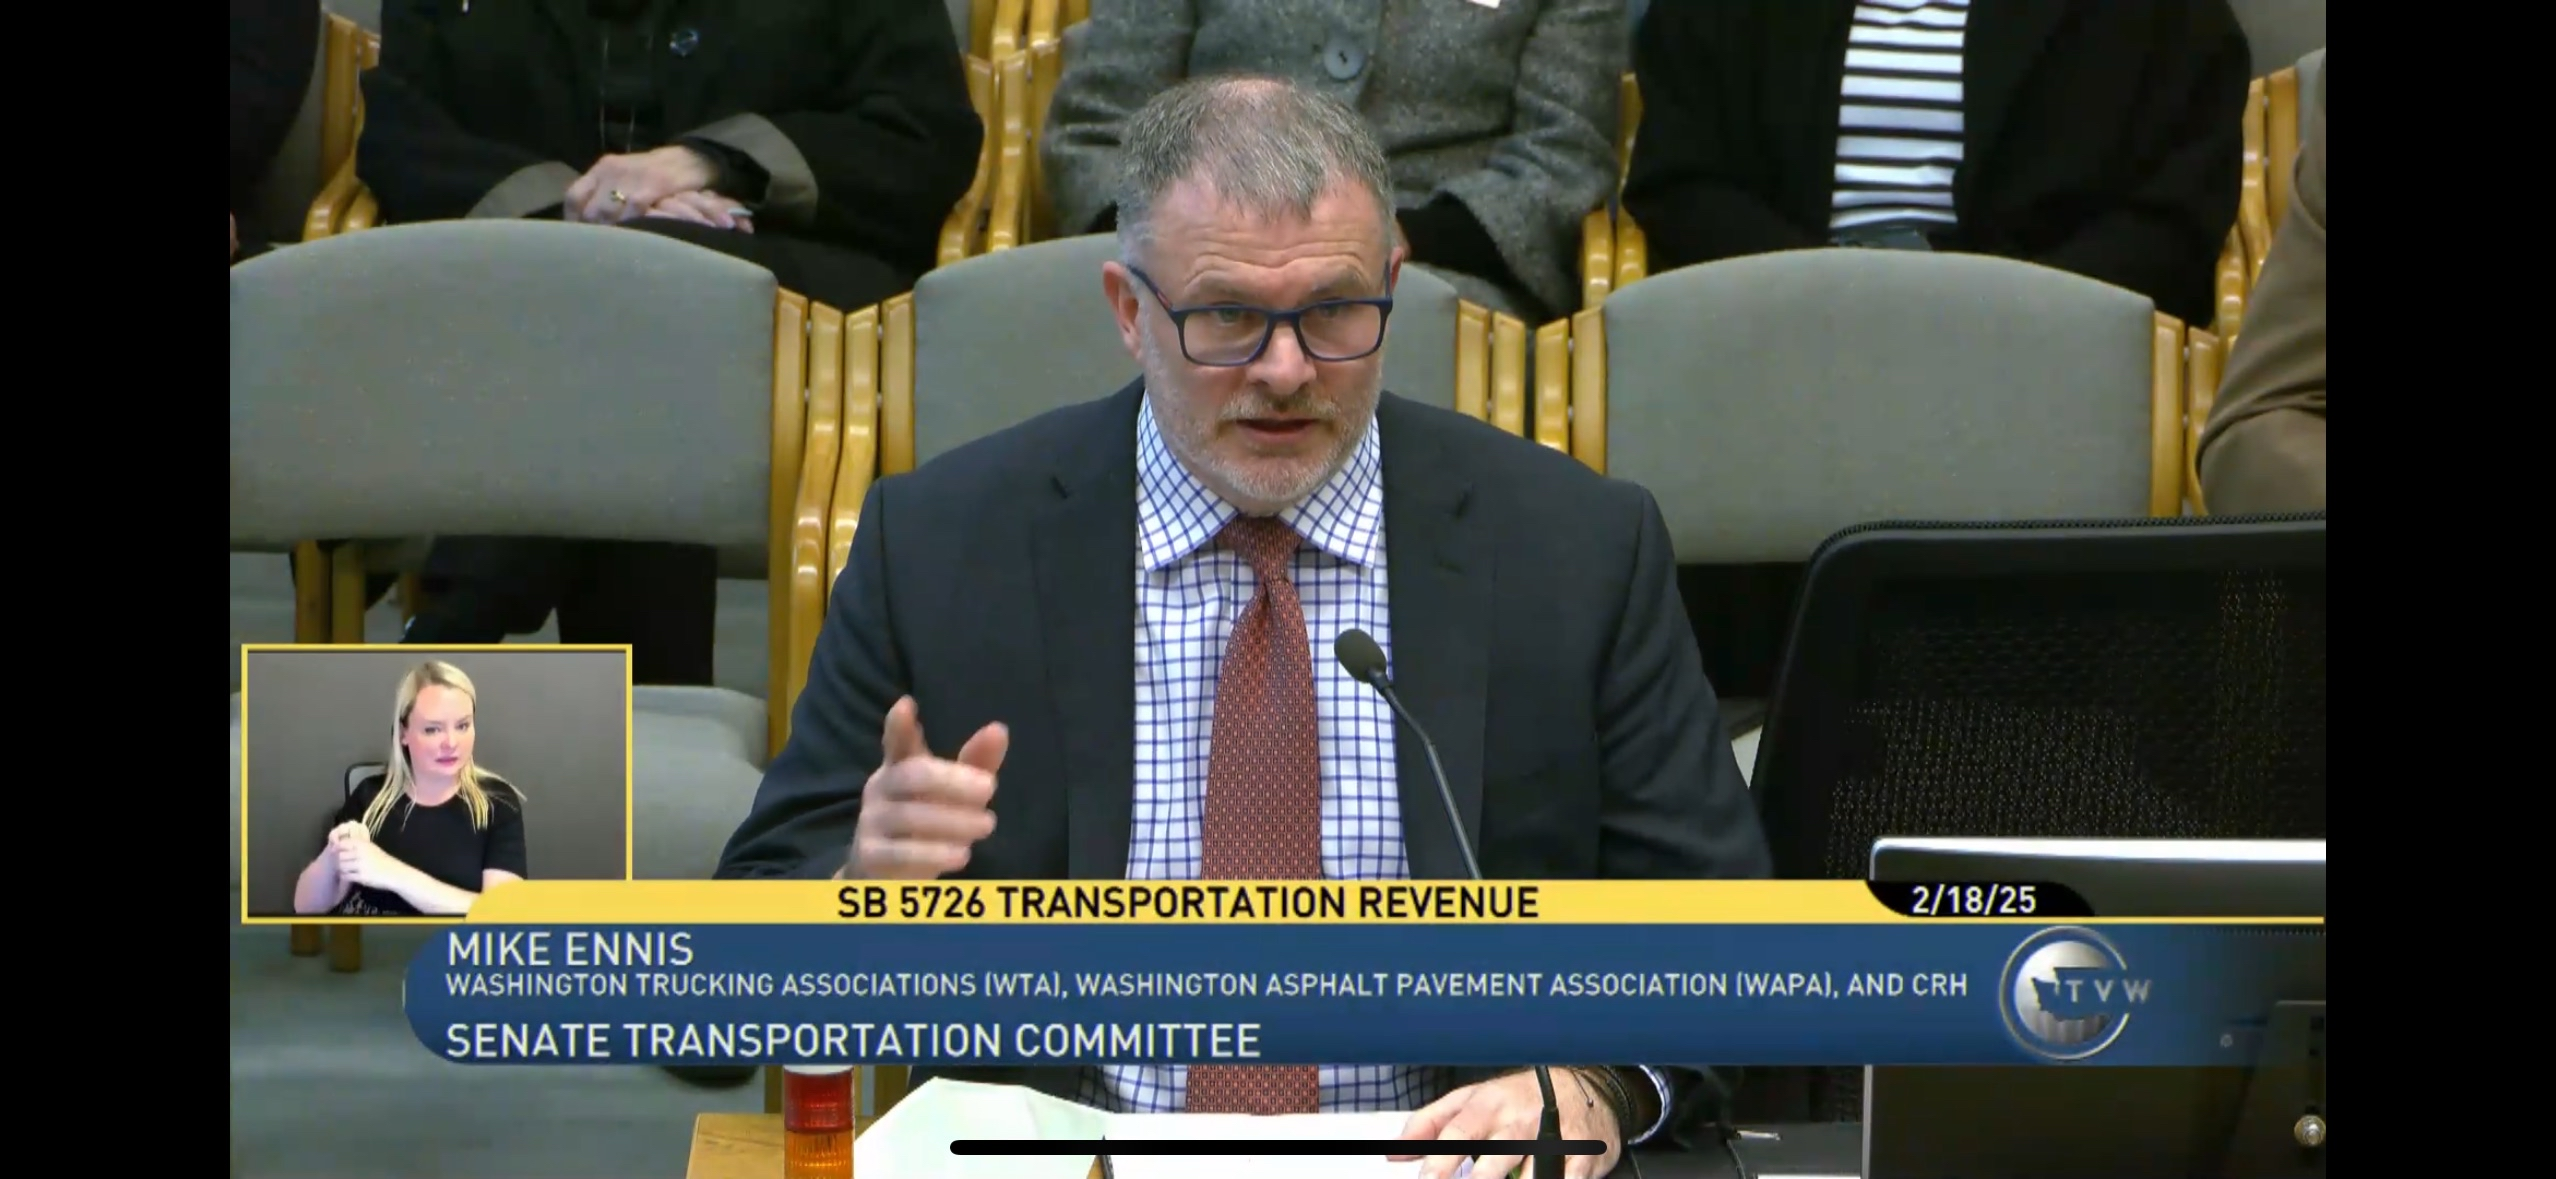
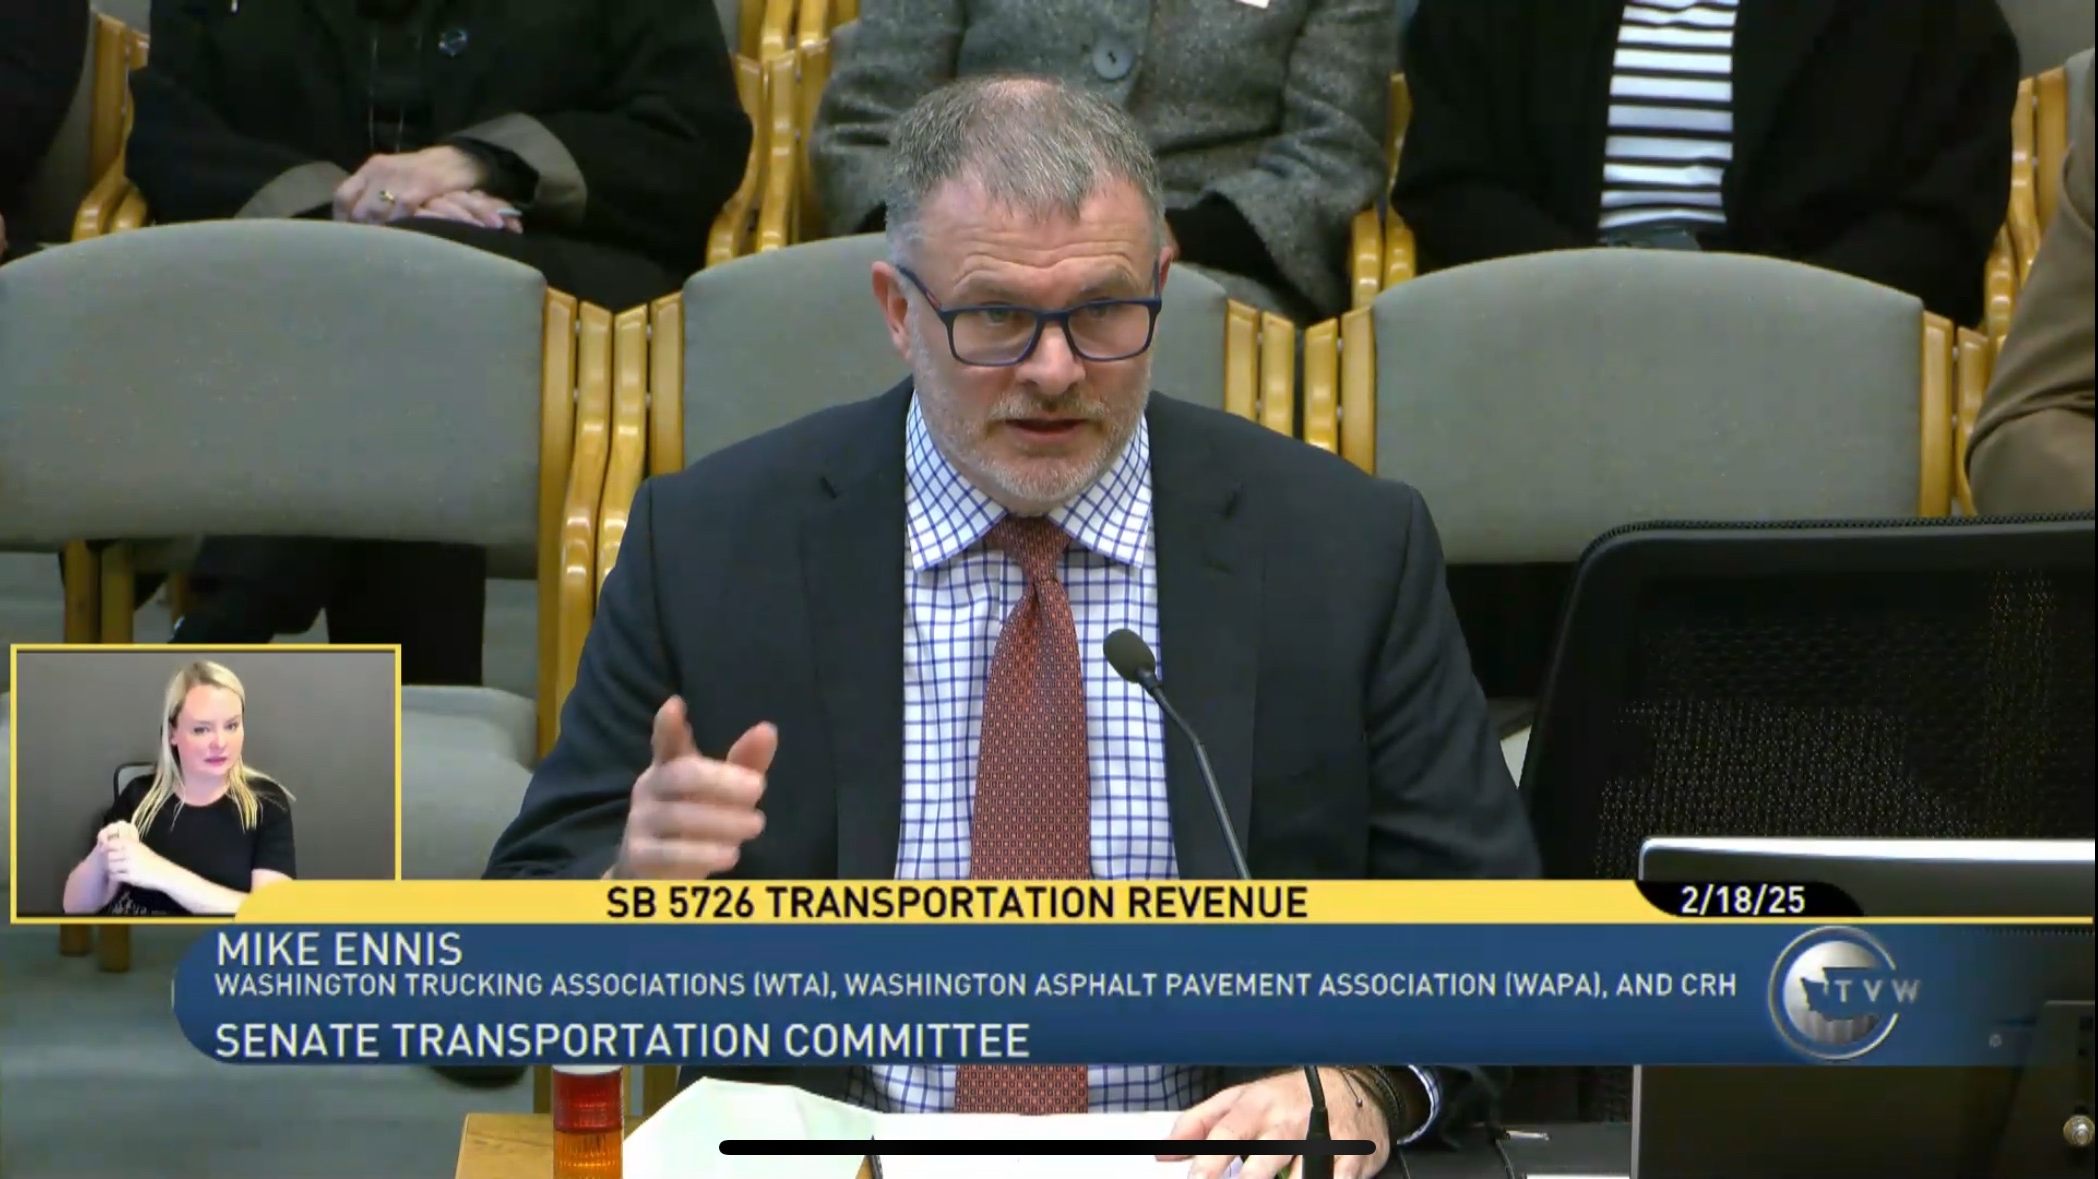
Add files via upload

diff --git a/index.html b/index.html
@@ -10,7 +10,7 @@
     <!-- Navigation Bar -->
     <nav class="navbar">
         <div class="nav-container">
-            <div class="nav-logo">Mike</div>
+            <div class="nav-logo">Ennis Public Affairs</div>
             <div class="hamburger" id="hamburger">
                 <span></span>
                 <span></span>
@@ -39,8 +39,8 @@
             <div class="background-content">
                 <div class="background-text">
                     <h2>About Mike</h2>
-                    <p>Mike Ennis is a lobbyist with more than a dozen years of experience representing employers and industry associations before the Washington State Legislature. He focuses on turning business concerns into clear, actionable policy positions and works directly with legislators, stakeholders, and staff to address tax, regulatory, and policy issues affecting a broad range of industries.</p>
-                    <p>Over the course of his career, Mike has built effective working relationships, and he is known for his straightforward approach, working on both sides of the aisle to navigate the legislative process to deliver practical results for the organizations he represents. Mike values transparency, clear communication, collaboration, and strong professional relationships, and he brings those principles to every aspect of his advocacy work.</p>
+                    <p>Mike Ennis is a lobbyist with more than twelve years of experience representing employers and industry associations before the Washington State Legislature. He focuses on turning business concerns into clear, actionable policy positions and works directly with legislators, stakeholders, and staff to address tax, regulatory, and policy issues affecting a broad range of industries.</p>
+                    <p>Over the course of his career, Mike has built effective working relationships, and he is known for his straightforward approach, working with both sides of the aisle to navigate the legislative process to deliver practical results for the organizations he represents. Mike values transparency, clear communication, collaboration, and strong professional relationships, and he brings those principles to every aspect of his advocacy work.</p>
                 </div>
                 <div class="background-image">
                     <img src="MikesPortrait.jpg" alt="Mike Ennis - Lobbyist">
@@ -53,6 +53,7 @@
     <section id="services" class="services">
         <div class="section-container">
             <h2>Services</h2>
+            <p class="services-intro">Mike can provide clients with a variety of services that can be customized to best fit your needs. He offers flexible, scalable support designed to meet clients where they are and move them forward. No matter the scope or complexity of the issue, Mike adapts his work to ensure the strongest possible outcome. Whether you require strategic guidance, legislative analysis, bill drafting, or hands-on advocacy, Mike can shape his services to meet your goals.</p>
             <div class="services-grid">
                 <div class="service-card">
                     <div class="service-image">
@@ -63,14 +64,14 @@
                 </div>
                 <div class="service-card">
                     <div class="service-image">
-                        <img src="https://via.placeholder.com/300x200?text=Bill+Tracking" alt="Bill Tracking Service">
+                        <img src="BillTracking.png" alt="Bill Tracking Service">
                     </div>
                     <h3>Bill Tracking</h3>
                     <p>Comprehensive monitoring and analysis of legislation relevant to your industry and policy priorities</p>
                 </div>
                 <div class="service-card">
                     <div class="service-image">
-                        <img src="https://via.placeholder.com/300x200?text=Consulting" alt="Consulting Service">
+                        <img src="Compass.png" alt="Consulting Service" class="contain-image">
                     </div>
                     <h3>Consulting/Strategy Development</h3>
                     <p>Expert guidance on policy strategy, legislative positioning, and advocacy planning tailored to your goals</p>
@@ -84,7 +85,7 @@
                 </div>
                 <div class="service-card">
                     <div class="service-image">
-                        <img src="https://via.placeholder.com/300x200?text=Regulatory+Compliance" alt="Regulatory Compliance Service">
+                        <img src="DOE.png" alt="Regulatory Compliance Service" class="contain-image">
                     </div>
                     <h3>Regulatory Compliance and Rulemaking</h3>
                     <p>Navigation of regulatory processes and engagement in rulemaking to ensure compliance and favorable outcomes</p>
@@ -100,7 +101,7 @@
                 <div class="issue-areas-content">
                     <div class="issue-areas-text">
                         <h2>Issue Areas</h2>
-                        <p>Representing employers and industry associations at the Washington State legislature on issues related to general business, transportation, aviation, trucking, supply chains, labor and employment law, agriculture, environment, land use, housing, telecom, and infrastructure.</p>
+                        <p>Mike represents employers and industry associations at the Washington State legislature and specializes on issues related to general business, transportation, aviation, trucking, supply chains, labor and employment law, agriculture, environment, land use, housing, telecom, and infrastructure.</p>
                     </div>
                     <div class="issue-areas-image">
                         <img src="MikeAtSeattleTour.jpg" alt="Issue Areas">
@@ -134,7 +135,7 @@
     <!-- Footer -->
     <footer class="footer">
         <div class="footer-content">
-            <p>&copy; 2025 Mike - Government Affairs. All rights reserved.</p>
+            <p>&copy; 2025 Ennis Public Affairs. All rights reserved.</p>
         </div>
     </footer>
 

diff --git a/style.css b/style.css
@@ -19,6 +19,13 @@ body {
     background-color: #f8f9fa;
 }
 
+/* Prevent horizontal scrolling/panning on small devices */
+html, body {
+    overflow-x: hidden;
+    /* prefer vertical panning on touch devices */
+    touch-action: pan-y;
+}
+
 /* ======================== */
 /* NAVIGATION BAR */
 /* ======================== */
@@ -159,7 +166,7 @@ section h2::after {
 .background-content {
     display: grid;
     grid-template-columns: 1fr 1fr;
-    gap: 3rem;
+    gap: 1rem;
     align-items: center;
 }
 
@@ -187,12 +194,11 @@ section h2::after {
      box-shadow: 0 8px 20px rgba(0, 0, 0, 0.15);
      transition: transform 0.3s ease;
      position: relative;
-     left: 10%;
  }
  
  .background-image {
      display: flex;
-     justify-content: flex-end;
+     justify-content: center;
      align-items: flex-start;
  }
  
@@ -254,6 +260,15 @@ section h2::after {
     background-color: white;
 }
 
+.services-intro {
+    font-size: 1.1rem;
+    color: #555;
+    line-height: 1.8;
+    max-width: 900px;
+    margin: 0 auto 3rem;
+    text-align: center;
+}
+
 .services-grid {
     display: grid;
     grid-template-columns: repeat(auto-fit, minmax(300px, 1fr));
@@ -281,7 +296,14 @@ section h2::after {
     width: 100%;
     height: 100%;
     object-fit: cover;
+    object-position: center;
     transition: transform 0.3s ease;
+}
+
+/* For images that should show the full image without cropping */
+.contain-image {
+    object-fit: contain !important;
+    object-position: center;
 }
 
 .service-card:hover .service-image img {
